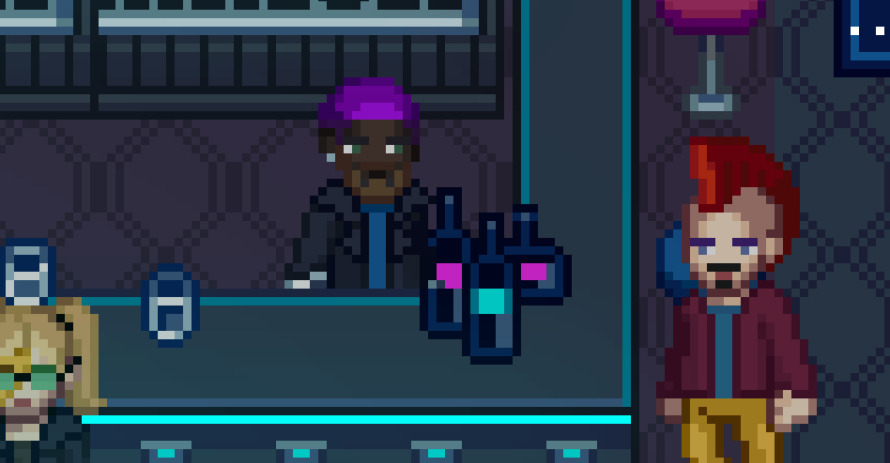
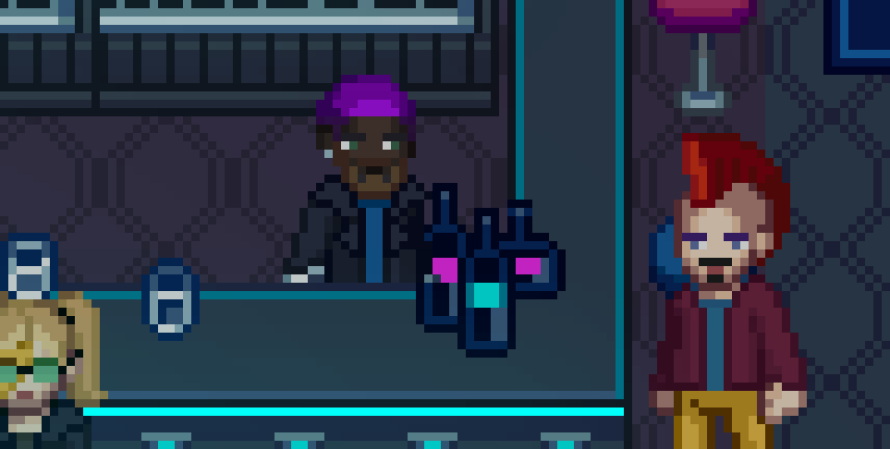
mint-ui

diff --git a/src/styles/newccpage.css b/src/styles/newccpage.css
@@ -4,12 +4,13 @@
 
 display:block;
     background-image: url("../assets/new-cc-page/header-pic-final.png");
-    background-position: center;
-    background-size:100%;
-    width:auto;
+padding-bottom:5rem;
+    background-size:contain;
+    width:100%;
     height:fit-content;
     background-repeat: no-repeat;
- 
+    padding-top:7.5%;
+
     
 }
 
@@ -42,9 +43,21 @@ display:block;
     width:auto;
     height:fit-content;
     background-repeat: no-repeat;
-    padding-bottom:70rem;
+    padding-bottom:43rem;
     
 }
+.s4-newccpage {    
+    display:block;
+       
+    
+        background-image: url("../assets/new-cc-page/bar-left.png");
+        background-position: center;
+        background-size:cover;
+    width:auto;
+        background-repeat: no-repeat;
+        height:85vh;
+        
+    }
 
 img#logo-big {
     max-width:100% !important;
@@ -54,16 +67,108 @@ image.buttons-newccpage {
     size-adjust:150%;
 
 }
+.s5-newccpage {
+  display:block;
+   
+
+  background-image: url("../assets/new-cc-page/bar-right.png");
+  background-position:center;
+  background-size:cover;
+  width:auto;
+  height:80vh;
+  background-repeat: no-repeat;
+}
 
 .s3-newccpage {
-    background-image: url("../assets/new-cc-page/searcharea.png");
-    height:75vh;
-    background-repeat:no-repeat;
-    background-size:cover;
-    background-position:center;
+  display:block;
+   
+
+  background-image: url("../assets/new-cc-page/searcharea.png");
+  background-position:center;
+  background-size:cover;
+  width:auto;
+  height:80vh;
+  background-repeat: no-repeat;
+
+  
+
+
+}
+img#faq-title {
+  position:absolute;
+}
+h4#faqtitle {
+  font-size:125%;
+  margin-top:12vh;
+}
+div#headercont, h4#faqtitle{
+position:relative;
+padding-top:1.8rem;
+padding-left:22.5rem;
+
+}
+div.namecont {
+  position:relative;
+
+  
+}
+p.character-name {
+  position:relative;
+  padding-left:8vh;
+  color:red
+}
+img#faq-title{
+    min-width:80vh;
+    min-height:15vh;
+
+margin-top:10vh;
+  padding-top:2vh;
+}
+div#borderarea {
+    display:block;
+    padding-top:5vh;
+    position:relative;
+
+    
+
+}
+img#searchareaborder {
+
+  min-width:85vh;
+  min-height:50vh;
+  position:absolute;
+
+
+}
+
+img#example-searchpng{
+    min-width:45vh;
+    min-height:25vh;
+    position:relative;
+  margin-left:19vh;
+  margin-top:12vh;
+
+  
+  
+ 
+}
+img#search-btn{
+position:relative;
+margin-left:20vh;
+min-height:auto;
+min-width:40vh;
 
 
 
+}
+
+img#search-descriptionpng{
+    min-width:80vh;
+    min-height:15vh;
+    
+  margin-left:20vh;
+
+  padding-top:2vh;
 }
 div.divider {
     border: 1px solid hsla(295, 100%, 59%, 1);
@@ -97,6 +202,8 @@ div.divider {
 
 min-height:25rem;
 min-width:20rem;
+margin-bottom:2.5vh;
+margin-top:1vh;
 
   }
 
@@ -105,6 +212,3 @@ min-width:20rem;
 
     
   
-div.container {
-    margin-top:10rem;
-}

diff --git a/src/pages/testpage1.html b/src/pages/testpage1.html
@@ -77,6 +77,7 @@
  
 
 </section>
+<div class="divider"></div>
 <section class="s2-newccpage">
 
 
@@ -85,14 +86,29 @@
 <section class="s3-newccpage">
 <div class="container">
 <img id="cc-mint-pic" src="../assets/new-cc-page/mint-cc-new.png">
-<div> <a href="https://cybercitizens.io/payment-portal/pay.html?address=9heqk8a1pBZLr3nde1Byi6YRHcoDiMgXNTBg4eb6d58qsg7crwT&currency=ERG&amount=25&ref=CyberCitizen%20Wave%203!" onclick="document.getElementById('modal1').style.display='block'" target="iframe_modal" >Mint</a>  </div>
+ <a href="https://cybercitizens.io/payment-portal/pay.html?address=9heqk8a1pBZLr3nde1Byi6YRHcoDiMgXNTBg4eb6d58qsg7crwT&currency=ERG&amount=25&ref=CyberCitizen%20Wave%203!" onclick="document.getElementById('modal1').style.display='block'" target="iframe_modal" >Mint</a>  </div>
 </div>
     
 </section>
 <div class="divider"></div>
 
 
+<section class="s4-newccpage">
 
+    <div id="borderarea"><img src="../assets/new-cc-page/search-border.png" id="searchareaborder"> <img src="../assets/new-cc-page/search-example.png" id="example-searchpng">    
+      <br> <img src="../assets/new-cc-page/buttons/btn-search.png" id="search-btn" >
+</div><br><img src="../assets/new-cc-page/nftvsingame.png" id="search-descriptionpng" >
+
+    </section>
+           
+       
+       <div class="divider"></div>
+       <section class="s5-newccpage">
+<div id="faq-title"><img src="../assets/new-cc-page/nftvsingame.png" id="faq-title"><div id="headercont"><h4 id="faqtitle">Do you have any info about the project?</h4></div><div id="namecont"><p class="character-name">Kylo</p></div></div>
+
+    
+        </section>
+        <div class="divider"></div>
 
 
 
